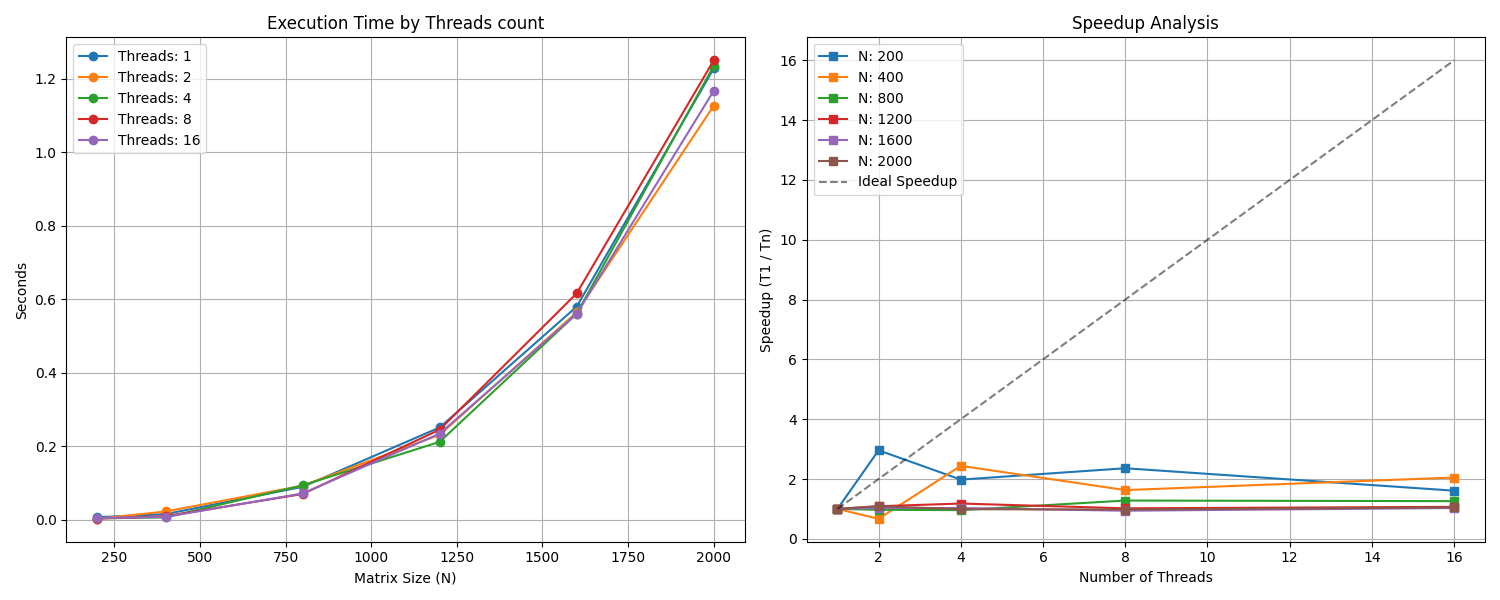
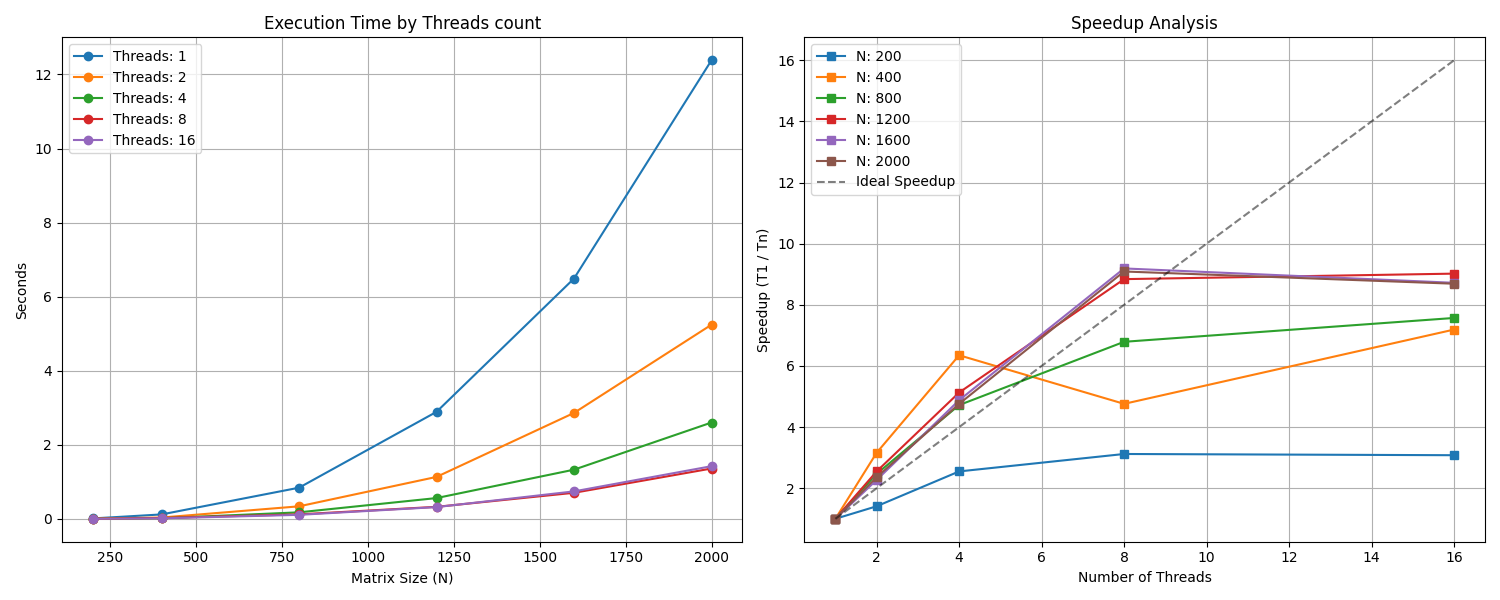
fixed

diff --git a/lab2/matrix_mult.cpp b/lab2/matrix_mult.cpp
@@ -7,26 +7,26 @@
 
 using namespace std;
 
-void read_matrix(const string& filename, vector<double>& matrix, int n){
+void read_matrix(const string& filename, vector<double>& matrix, int n) {
     ifstream file(filename, ios::binary);
-    if (file){
-        file.read(reinterpret_cast<char*>(matrix.data()), n * n * sizeof(double));
+    if (file) {
+        file.read(reinterpret_cast<char*>(matrix.data()), (size_t)n * n * sizeof(double));
     } else {
-        cerr << "Error while openning file: " << filename << endl;
+        cerr << "Error while opening file: " << filename << endl;
         exit(1);
     }
 }
 
-void write_matrix(const string& filename, const vector<double>& matrix, int n){
+void write_matrix(const string& filename, const vector<double>& matrix, int n) {
     ofstream file(filename, ios::binary);
-    if (file){
-        file.write(reinterpret_cast<const char*>(matrix.data()), n * n * sizeof(double));
+    if (file) {
+        file.write(reinterpret_cast<const char*>(matrix.data()), (size_t)n * n * sizeof(double));
     }
 }
 
-int main(int argc, char* argv[]){
-    if (argc != 6){
-        cerr << "Incorrect args!" << endl;
+int main(int argc, char* argv[]) {
+    if (argc != 6) {
+        cerr << "Usage: <N> <file_A> <file_B> <file_C> <threads>" << endl;
         return 1;
     }
 
@@ -34,6 +34,9 @@ int main(int argc, char* argv[]){
     string file_a = argv[2];
     string file_b = argv[3];
     string file_c = argv[4];
+    int threads = stoi(argv[5]);
+
+    omp_set_num_threads(threads);
 
     vector<double> A((size_t)n * n);
     vector<double> B((size_t)n * n);
@@ -42,21 +45,34 @@ int main(int argc, char* argv[]){
     read_matrix(file_a, A, n);
     read_matrix(file_b, B, n);
 
+    vector<double> BT((size_t)n * n);
+    #pragma omp parallel for collapse(2)
+    for (int i = 0; i < n; i++) {
+        for (int j = 0; j < n; j++) {
+            BT[(size_t)i * n + j] = B[(size_t)j * n + i];
+        }
+    }
+
     auto start = chrono::high_resolution_clock::now();
 
     #pragma omp parallel for schedule(static)
-    for (int i = 0; i < n; ++i){
-        for(int k = 0; k < n; ++k){
-            double temp = A[i * n + k];
-            for(int j = 0; j < n; ++j){
-                C[i * n + j] += temp * B[k * n + j];
+    for (int i = 0; i < n; i++) {
+        for (int j = 0; j < n; j++) {
+            double sum = 0.0;
+            size_t row_offset = (size_t)i * n;
+            size_t col_offset = (size_t)j * n;
+            for (int k = 0; k < n; k++) {
+                sum += A[row_offset + k] * BT[col_offset + k];
             }
+            C[row_offset + j] = sum;
         }
     }
+
     auto end = chrono::high_resolution_clock::now();
-    chrono::duration<double> elapsed = end - start;
+    chrono::duration<double> diff = end - start;
+    cout << diff.count() << endl;
 
     write_matrix(file_c, C, n);
-    cout << elapsed.count() << endl;
+
     return 0;
 }
